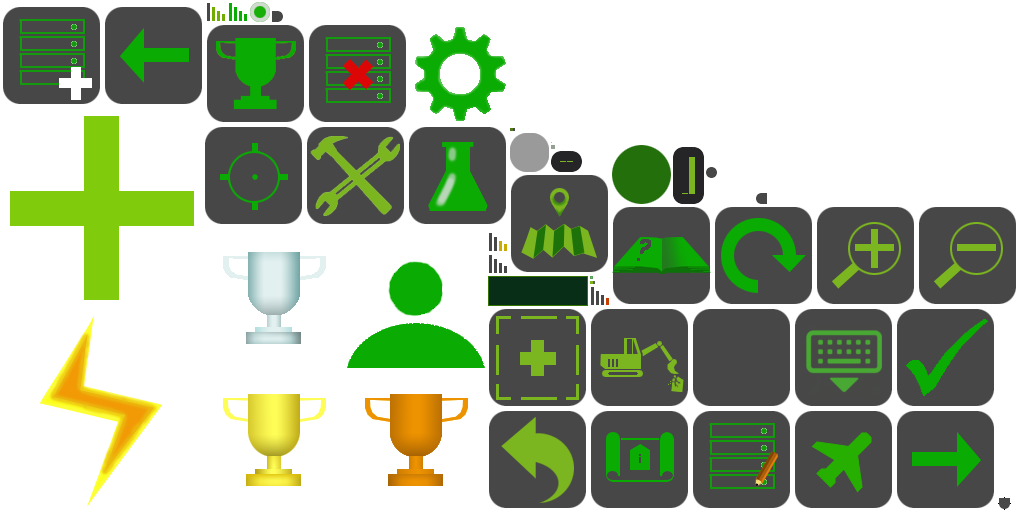
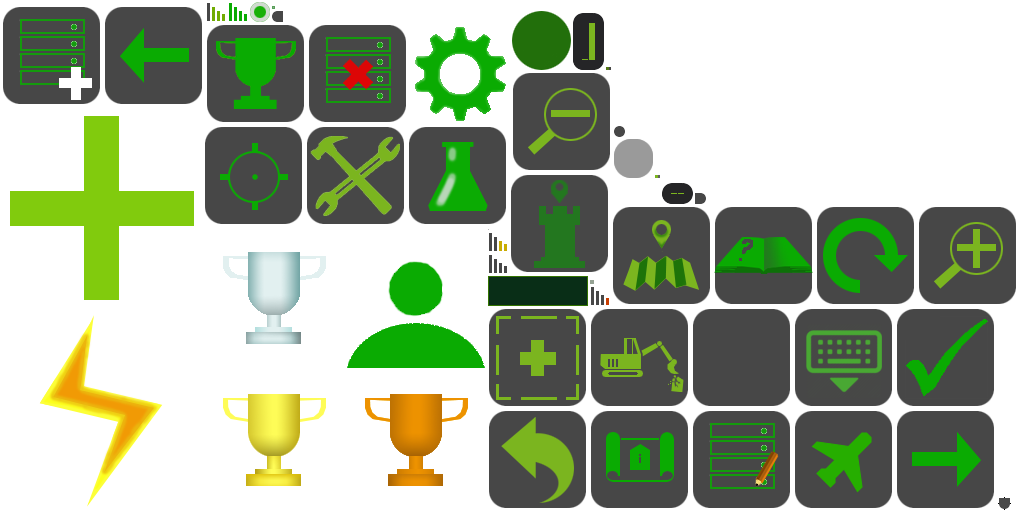
Added "To base" button

Changed region(s): [[0.5, 0.0, 0.9062, 0.5938], [0.9375, 0.4375, 0.9688, 0.5312]]

diff --git a/core/src/geobattle/geobattle/map/GeoBattleMap.java b/core/src/geobattle/geobattle/map/GeoBattleMap.java
@@ -199,8 +199,7 @@ public class GeoBattleMap extends Actor {
         return pointedTile.clone();
     }
 
-    // Sets real world position of camera
-    // `x` and `y` - position of camera in real world
+    // Moves camera to player geolocation
     public void moveToPlayer() {
         Vector2 coords = GeoBattleMath.latLongToMercator(
                 game.getExternalAPI().geolocationAPI.getCurrentCoordinates()
@@ -208,6 +207,32 @@ public class GeoBattleMap extends Actor {
         camera.position.set(
                 CoordinateConverter.realWorldToWorld(coords.x, xOffset),
                 CoordinateConverter.realWorldToWorld(coords.y, yOffset),
+                0
+        );
+    }
+
+    // Moves camera to player's base (or does nothing if it does not exist)
+    public void moveToBase() {
+        ArrayList<IntPoint> sectorPositions = new ArrayList<IntPoint>();
+        Iterator<Sector> sectors = gameState.getCurrentPlayer().getAllSectors();
+        while (sectors.hasNext()) {
+            Sector next = sectors.next();
+            sectorPositions.add(new IntPoint(next.x, next.y));
+        }
+
+        if (sectorPositions.size() == 0)
+            return;
+
+        double averageX = 0;
+        double averageY = 0;
+        for (IntPoint sectorPos : sectorPositions) {
+            averageX += (double) sectorPos.x / sectorPositions.size();
+            averageY += (double) sectorPos.y / sectorPositions.size();
+        }
+
+        camera.position.set(
+                CoordinateConverter.subTilesToWorld(averageX + Sector.SECTOR_SIZE / 2, xOffset, GeoBattleConst.SUBDIVISION),
+                CoordinateConverter.subTilesToWorld(averageY + Sector.SECTOR_SIZE / 2, yOffset, GeoBattleConst.SUBDIVISION),
                 0
         );
     }

diff --git a/core/src/geobattle/geobattle/screens/gamescreen/GameScreenGUI.java b/core/src/geobattle/geobattle/screens/gamescreen/GameScreenGUI.java
@@ -251,6 +251,17 @@ public final class GameScreenGUI {
         navigationToolBar.add(toPlayer)
                 .width(buttonSize)
                 .height(buttonSize);
+        navigationToolBar.row();
+        VisImageButton toBase = new VisImageButton("buttonToBase");
+        toBase.addListener(new ChangeListener() {
+            @Override
+            public void changed(ChangeEvent event, Actor actor) {
+                screen.onMoveToBase();
+            }
+        });
+        navigationToolBar.add(toBase)
+                .width(buttonSize)
+                .height(buttonSize);
         navigationToolBar.left().padLeft(20).bottom().padBottom(20);
     }
 

diff --git a/core/src/geobattle/geobattle/screens/gamescreen/GameScreen.java b/core/src/geobattle/geobattle/screens/gamescreen/GameScreen.java
@@ -212,6 +212,11 @@ public final class GameScreen implements Screen {
         map.moveToPlayer();
     }
 
+    // Invokes when player wants to move to its base
+    public void onMoveToBase() {
+        map.moveToBase();
+    }
+
     public void onTutorialMessage() {
         if (tutorial != null && tutorial.getCurrent() != null)
             gui.showTutorialMessage(this, tutorial.getCurrent().message);
